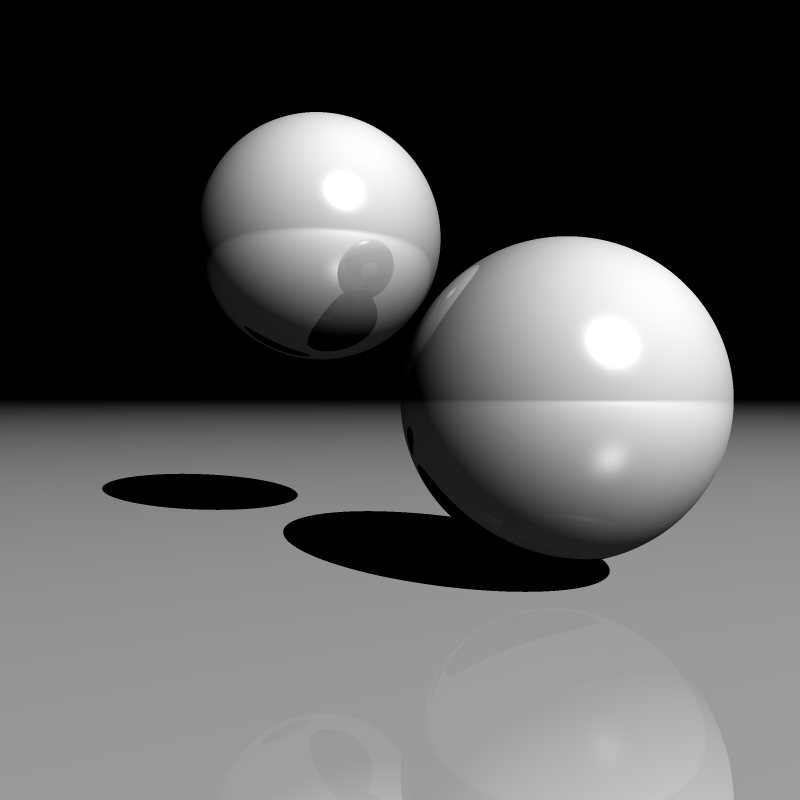
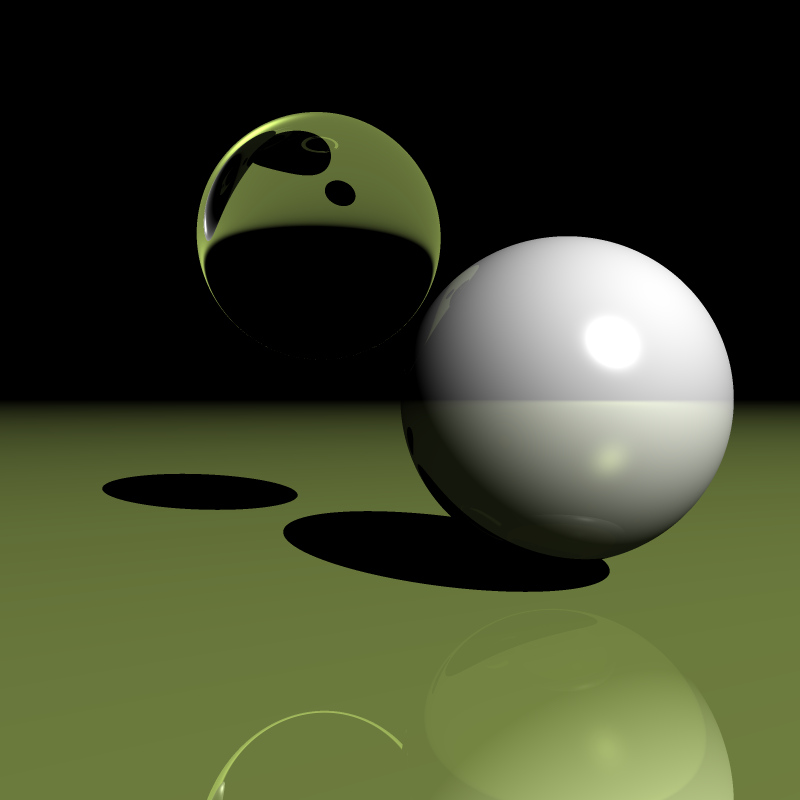
first step towards refraction

diff --git a/src/main.rs b/src/main.rs
@@ -42,9 +42,10 @@ fn render(image: &mut Vec<u8>, size_x: u32, size_y: u32, scene: &Scene) {
             }
             color = color / 9.0;
 
-            for z in 0..3
-            {
-                if color.v[z] > 1.0 { color.v[z] = 1.0; }
+            for z in 0..3 {
+                if color.v[z] > 1.0 {
+                    color.v[z] = 1.0;
+                }
             }
 
             image[((y * size_x + x) * 4 + 0) as usize] = (color.v[0] * 255.0) as u8;
@@ -79,7 +80,12 @@ fn main() {
                 v: [-0.2, 0.4, -2.0],
             },
             r: 0.3,
-            mat: Material::default_material(),
+            mat: Material {
+                col: Vec3 { v: [0.0, 0.0, 0.0] },
+                specular: 0.0,
+                diffuse: 0.0,
+                refractive: 1.0,
+            },
             id: 0,
         }));
         scene.add(Box::new(Plane {
@@ -87,7 +93,12 @@ fn main() {
                 v: [0.0, -0.35, 0.0],
             },
             norm: Vec3 { v: [0.0, 1.0, 0.0] },
-            mat: Material::default_material(),
+            mat: Material {
+                col: Vec3 { v: [0.7, 0.8, 0.4] },
+                specular: 0.4,
+                diffuse: 0.6,
+                refractive: 0.0,
+            },
             id: 0,
         }));
 

diff --git a/src/scene.rs b/src/scene.rs
@@ -1,6 +1,6 @@
+use material::Material;
 use std::ptr;
 use vector::{Ray, Vec3};
-use material::Material;
 
 pub trait Intersector {
     //returns the distance and the color component
@@ -113,7 +113,13 @@ impl Scene {
         };
         let reflect_intersect = self.intersect(&ray, true, source).1 * mat.specular;
 
-        return reflect_intersect;
+        let ray2 = Ray {
+            origin: pos,
+            dir: reflected * -1.0, //todo: this is wrong. fix me !
+        };
+        let refracted_intersect = self.intersect(&ray2, true, source).1 * mat.refractive;
+
+        return reflect_intersect + refracted_intersect;
     }
 
     pub fn default_scene() -> Scene {

diff --git a/src/sphere.rs b/src/sphere.rs
@@ -1,5 +1,5 @@
-use vector::{Ray, Vec3};
 use material::Material;
+use vector::{Ray, Vec3};
 
 use scene::{Intersector, Scene};
 
@@ -12,8 +12,8 @@ pub struct Sphere {
 
 impl Intersector for Sphere {
     fn intersect(&self, ray: &Ray, scene: &Scene, full_tracing: bool) -> (f64, Vec3) {
-        let discriminant = ray.dir.dot(ray.origin - self.center).powf(2.0) - (ray.origin - self.center).len2()
-            + self.r * self.r;
+        let discriminant = ray.dir.dot(ray.origin - self.center).powf(2.0)
+            - (ray.origin - self.center).len2() + self.r * self.r;
 
         if discriminant < 0.0 {
             return (-1.0, Vec3 { v: [0.0, 0.0, 0.0] });

diff --git a/src/material.rs b/src/material.rs
@@ -8,10 +8,10 @@ pub struct Material {
     pub refractive: f64,
 }
 
-impl Material{
+impl Material {
     pub fn default_material() -> Material {
         Material {
-            col: Vec3{v: [1.0, 1.0, 1.0]},
+            col: Vec3 { v: [1.0, 1.0, 1.0] },
             diffuse: 0.8,
             specular: 0.2,
             refractive: 0.0,

diff --git a/src/plane.rs b/src/plane.rs
@@ -1,5 +1,5 @@
-use vector::{Ray, Vec3};
 use material::Material;
+use vector::{Ray, Vec3};
 
 use scene::{Intersector, Scene};
 
